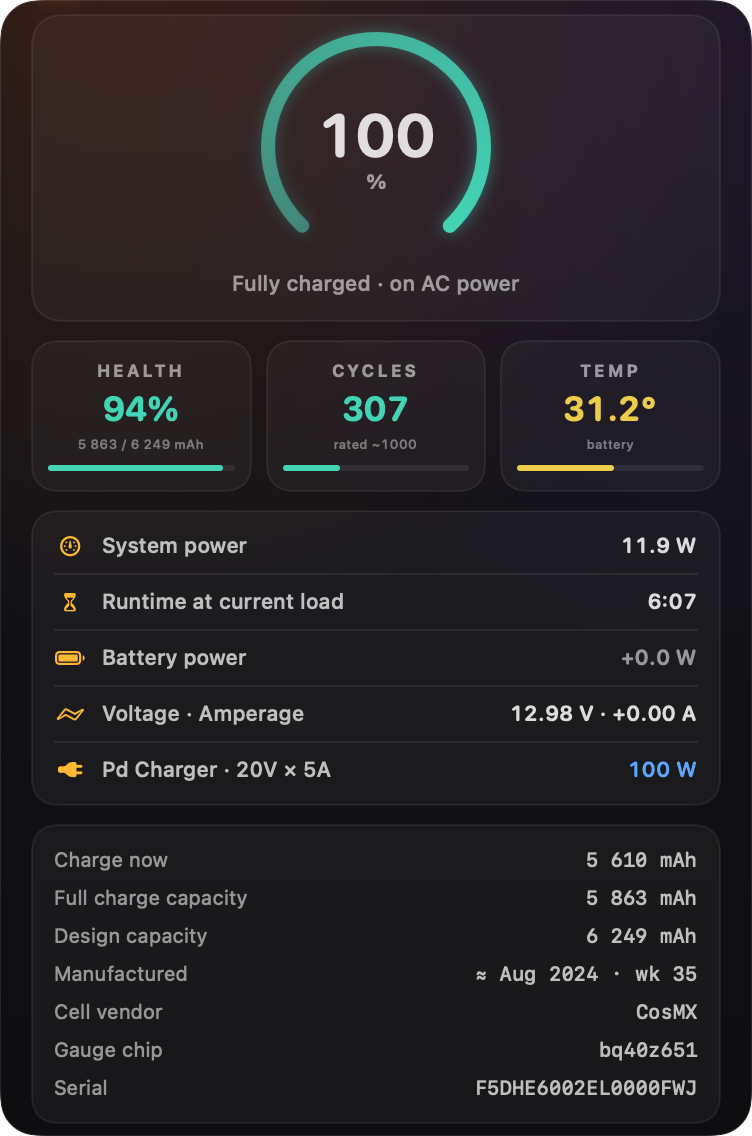
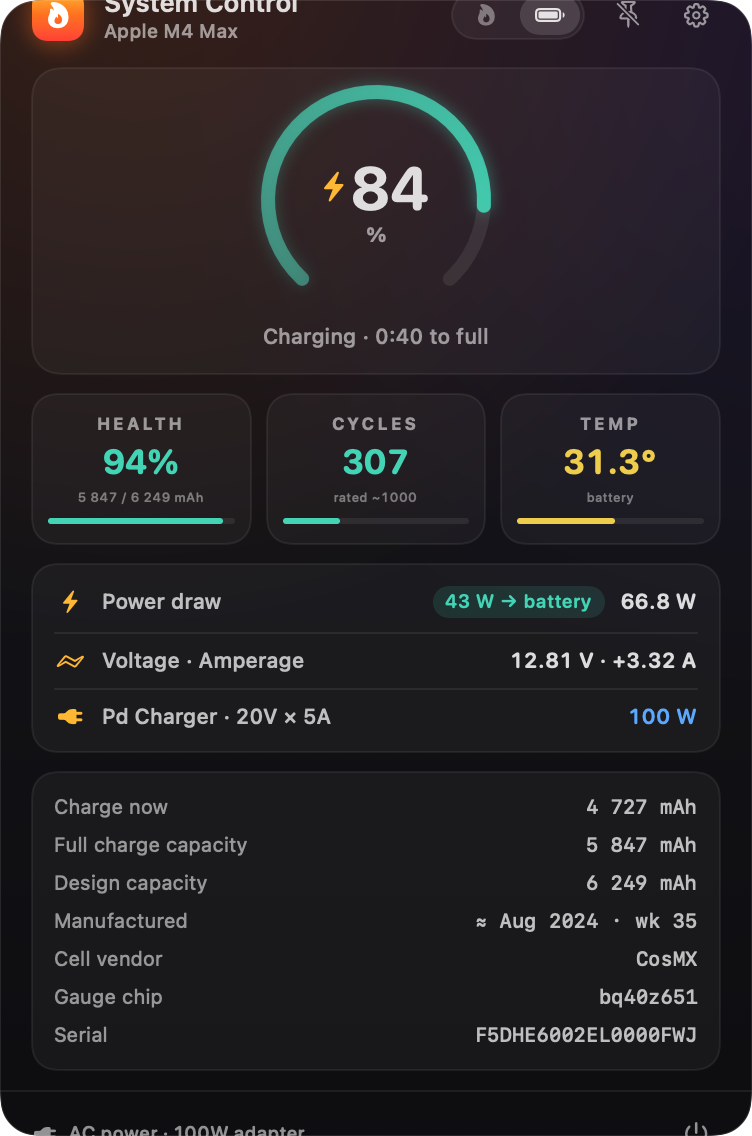
Battery: merge System/Battery power into one adaptive row
На батарее обе величины совпадали по модулю (системе неоткуда брать
энергию, кроме батареи) — строки дублировались. Теперь одна строка
'Power': потребление системы, а при зарядке — чип со скоростью заряда
(W → battery), т.к. на адаптере числа реально разные (потребление +
зарядка + потери). Раздел Battery теперь помещается без прокрутки.

diff --git a/Sources/SystemControl/UI/BatteryView.swift b/Sources/SystemControl/UI/BatteryView.swift
@@ -188,9 +188,10 @@ private struct ElectricalCard: View {
 
     var body: some View {
         VStack(spacing: 7) {
-            row(icon: "gauge.with.dots.needle.50percent", label: "System power",
-                value: b.systemWatts.map { String(format: "%.1f W", $0) } ?? "—",
-                valueColor: .primary)
+            // Потребление системы + (на зарядке) сколько уходит в батарею.
+            // На батарее эти две величины совпадают по модулю, поэтому
+            // чип показываем только при зарядке, когда числа реально разные.
+            powerRow
             // Прогноз времени работы — только когда реально работаем от батареи
             if !b.externalConnected {
                 divider
@@ -198,10 +199,6 @@ private struct ElectricalCard: View {
                     value: b.estEmptyMinutes.map { "\($0 / 60):" + String(format: "%02d", $0 % 60) } ?? "—",
                     valueColor: .primary)
             }
-            divider
-            row(icon: "battery.100percent", label: "Battery power",
-                value: String(format: "%+.1f W", b.batteryWatts),
-                valueColor: b.batteryWatts < -0.05 ? Theme.amber : (b.batteryWatts > 0.05 ? Theme.mint : .secondary))
             divider
             row(icon: "bolt.horizontal", label: "Voltage · Amperage",
                 value: String(format: "%.2f V · %+.2f A", b.voltage, b.amperage),
@@ -233,6 +230,34 @@ private struct ElectricalCard: View {
 
     private var divider: some View {
         Rectangle().fill(Theme.hairline).frame(height: 1)
+    }
+
+    // Объединённая строка мощности: потребление системы + чип зарядки
+    private var powerRow: some View {
+        let charging = b.externalConnected && b.batteryWatts > 0.5
+        return HStack(spacing: 8) {
+            Image(systemName: "bolt.fill")
+                .font(.system(size: 10, weight: .semibold))
+                .foregroundStyle(Theme.amber)
+                .frame(width: 16)
+            Text(b.externalConnected ? "Power draw" : "Power · on battery")
+                .font(.system(size: 10.5, weight: .medium))
+                .foregroundStyle(.primary.opacity(0.85))
+            Spacer()
+            if charging {
+                Text("\(Int(b.batteryWatts.rounded())) W → battery")
+                    .font(.system(size: 9.5, weight: .semibold, design: .rounded))
+                    .monospacedDigit()
+                    .foregroundStyle(Theme.mint)
+                    .padding(.horizontal, 6)
+                    .padding(.vertical, 2)
+                    .background(Capsule().fill(Theme.mint.opacity(0.13)))
+            }
+            Text(b.systemWatts.map { String(format: "%.1f W", $0) } ?? "—")
+                .font(.system(size: 10.5, weight: .semibold, design: .rounded))
+                .monospacedDigit()
+                .foregroundStyle(b.externalConnected ? .primary : Theme.amber)
+        }
     }
 
     private func row(icon: String, label: String, value: String, valueColor: Color) -> some View {